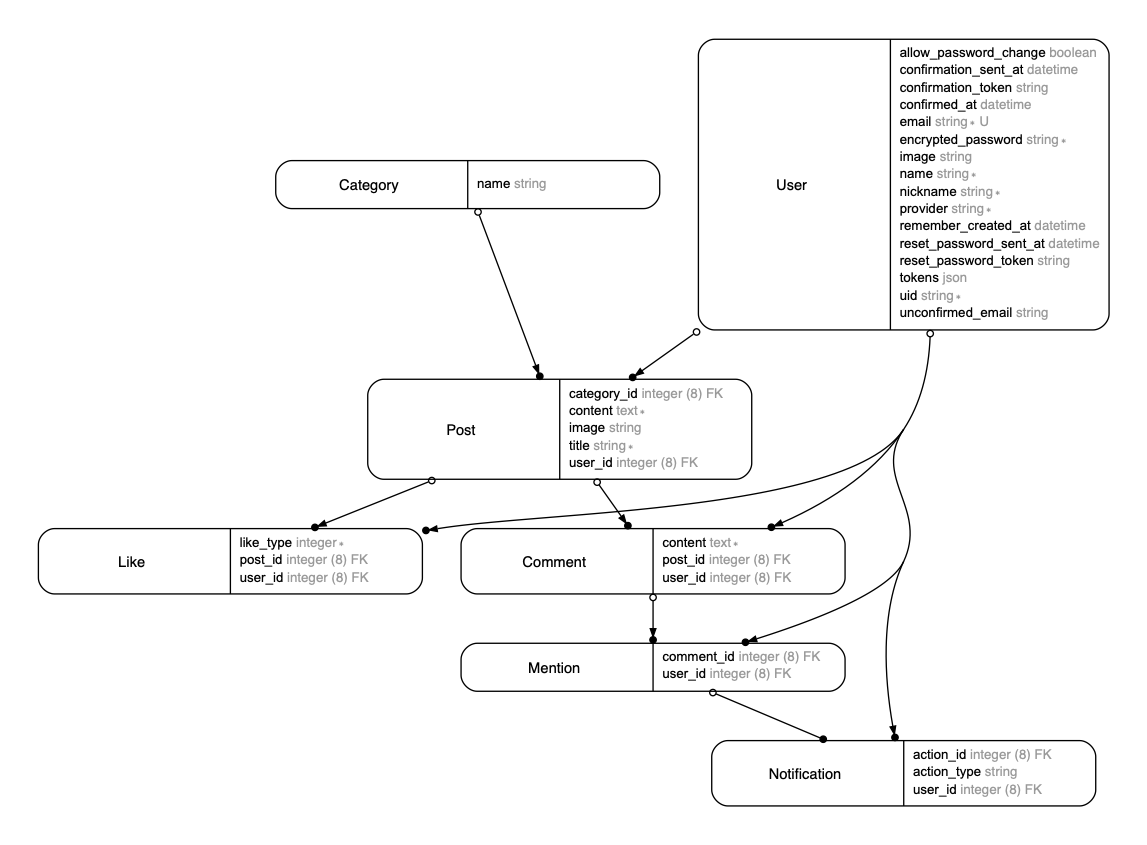
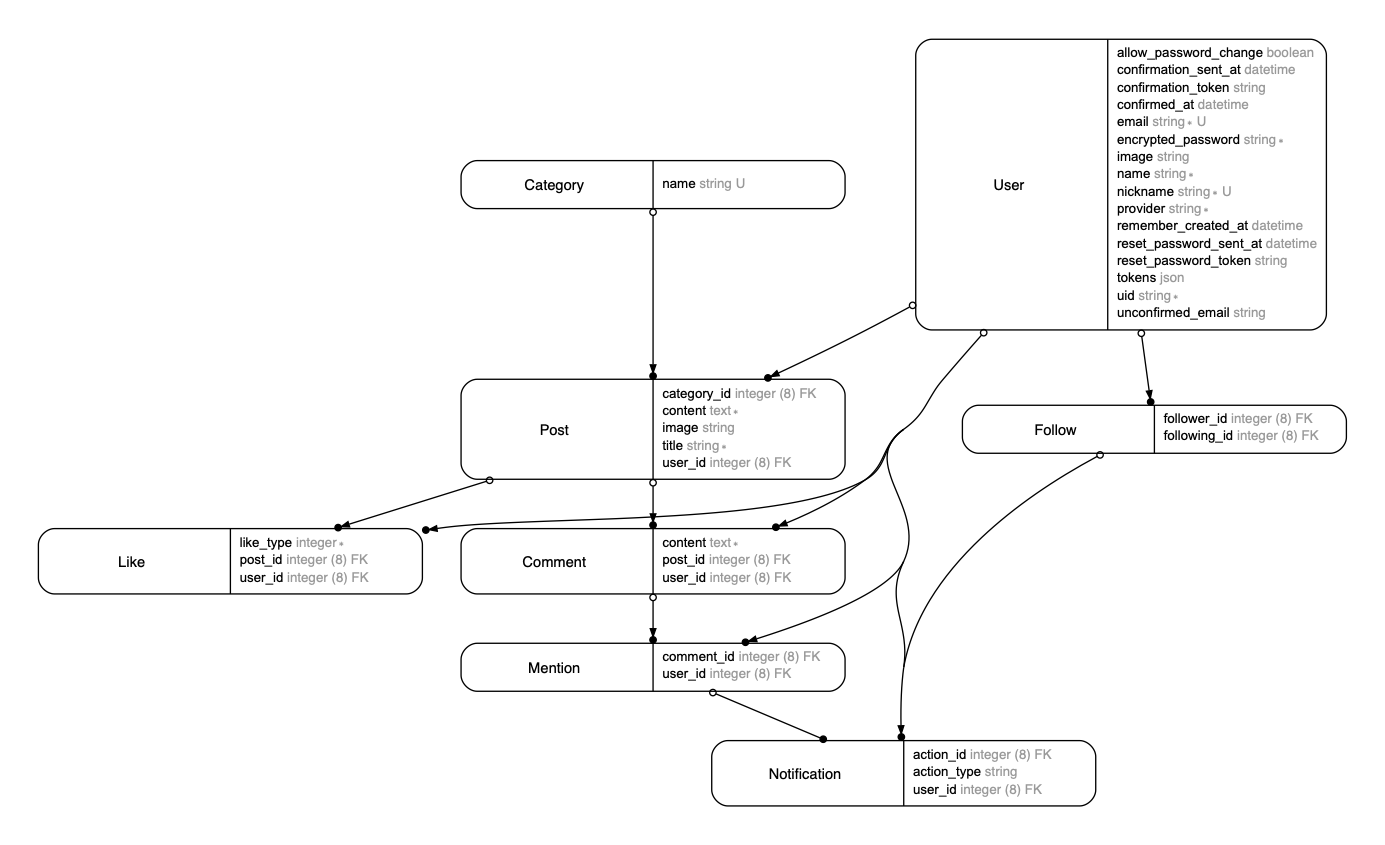
final

diff --git a/main.tex b/main.tex
@@ -57,7 +57,9 @@ W wyborze zestawu narzędzi do realizacji implementacji pracy kierowałem się t
 
 \chapter{Wymagania}
 
-Pierwsze blogi powstały w późnych latach 90. Były prostymi, statycznymi stronami WWW aktualizowanymi ręcznie. Wpisy były wyświetlane użytkownikowi w odwrotnej chronologicznej kolejności. Wraz z upływem czasu i wzrostem popularności internetowych dzienników powstały specjalne serwisy oraz oprogramowanie służące do ich obsługi. Pozwoliło to na prowadzenie własnego bloga przez przeciętnego użytkownika internetu. Dzisiaj najpopularniejszą odmianą są mikroblogi – strony umożliwiające użytkownikom dzielenie się krótkimi, kilku zdaniowymi przemyśleniami lub obrazkami, np. Twitter \cite{twitter}, Facebook \cite{facebook}, Wykop.pl \cite{wykop}. Poniżej opisano wymagania funkcjonalne i niefunkcjonalne wytwarzanego systemu.
+Pierwsze blogi powstały w późnych latach 90. Były prostymi, statycznymi stronami WWW aktualizowanymi ręcznie. Wpisy były wyświetlane użytkownikowi w odwrotnej chronologicznej kolejności. Wraz z upływem czasu i wzrostem popularności internetowych dzienników powstały specjalne serwisy oraz oprogramowanie służące do ich obsługi. Pozwoliło to na prowadzenie własnego bloga przez przeciętnego użytkownika internetu. Dzisiaj najpopularniejszą odmianą są mikroblogi – strony umożliwiające użytkownikom dzielenie się krótkimi, kilku zdaniowymi przemyśleniami lub obrazkami, np. Twitter \cite{twitter}, Facebook \cite{facebook}, Wykop.pl \cite{wykop}.
+
+Poniżej opisano wymagania funkcjonalne i niefunkcjonalne wytwarzanego systemu.
 
 \subsubsection{Wymagania funkcjonalne}
 
@@ -73,7 +75,7 @@ Pierwsze blogi powstały w późnych latach 90. Były prostymi, statycznymi stro
     \item Zalogowany użytkownik może:
         \begin{itemize}
             \item wylogować się;
-            \item pisać nowe posty
+            \item pisać nowe posty;
             \item pisać komentarze;
             \item przeglądać listę powiadomień.
         \end{itemize}
@@ -93,7 +95,7 @@ Pierwsze blogi powstały w późnych latach 90. Były prostymi, statycznymi stro
 % \subsection{Wnioski}-
 \chapter{Część dla programisty}
 \section{Architektura aplikacji}
-Aplikacja jest napisana w architekturze klient-serwer, podczas jej tworzenia wykorzystano wzorzec separacji zagadnień (ang. \textit{separation of concerns}, SoC). Pozwoliło to na podzielenie serwisu na dwie części. Pierwszą jest warstwa dostępu do danych napisana w języku Ruby \cite{ruby} z wykorzystaniem Ruby on Rails \cite{ror}. Odpowiada ona za przechowywanie danych w bazie danych PostgreSQL \cite{postgre} oraz za ich udostępnianie za pomocą API. Drugą częścią jest warstwa prezentacji, która wykorzystuje JavaScript oraz framework React \cite{react} w celu prezentacji danych. Taki podział pozwala na niezależny rozwój każdej części aplikacji.
+Aplikacja jest napisana w architekturze klient-serwer, podczas jej tworzenia wykorzystano wzorzec separacji zagadnień (ang. \textit{separation of concerns}, SoC) \cite{soc}. Pozwoliło to na podzielenie serwisu na dwie części. Pierwszą jest warstwa dostępu do danych napisana w języku Ruby \cite{ruby} z wykorzystaniem Ruby on Rails \cite{ror}. Odpowiada ona za przechowywanie danych w bazie danych PostgreSQL \cite{postgre} oraz za ich udostępnianie za pomocą API. Drugą częścią jest warstwa prezentacji, która wykorzystuje JavaScript oraz framework React \cite{react} w celu prezentacji danych. Taki podział pozwala na niezależny rozwój każdej części aplikacji.
 
 \section{Uruchomienie aplikacji}
 
@@ -105,7 +107,8 @@ Wymagane oprogramowanie do uruchomienia części serwerowej:
             \item Foreman \cite{foreman} w wersji 0.85.0,
             \item Pozostałe zależności z pliku \textit{Gemfile},
             \item PostgreSQL w wersji 11.3,
-            \item Redis \cite{redis} w wersji 5.0.5.
+            \item Node.js 10
+            \item Redis \cite{redis} w wersji 5.0.5 działający w tle.
         \end{itemize}
 
 Oto czynności, które trzeba wykonać, aby zainstalować część serwerową:
@@ -113,7 +116,7 @@ Oto czynności, które trzeba wykonać, aby zainstalować część serwerową:
     \item W katalogu \textit{blogger-backend} poleceniem \textit{bundle install} zainstalować dodatkowe biblioteki.
     \item Poleceniem \textit{rake db:create} utworzyć bazę danych.
     \item Wykonać migracje do bazy danych poleceniem \textit{rake db:migrate}.
-    \item Wypełnić bazę danych przykładowymi danymi peleceniem \textit{rake db:seed}.
+    \item Wypełnić bazę danych przykładowymi danymi poleceniem \textit{rake db:seed}.
     \item Poleceniem \textit{foreman start -f Procfile.dev} uruchomić serwer.
 \end{enumerate}
 
@@ -149,7 +152,11 @@ Część serwerowa została napisana z wykorzystaniem frameworka Ruby on Rails. 
     \end{minipage}
 \end{figure}
 \subsection{Struktura backendu}
-Struktura części serwerowej przedstawiona na rysunkach \ref{fig:struktura_serwer1} i \ref{fig:struktura_serwer2} powstała w wyniku działania wbudowanego w Ruby on Rails generatora. Utworzył on minimalną konfigurację potrzebną do rozpoczęcia pracy. Framework implementuje architekturę \textbf{MVC (Model-Widok-Kontroler)} \cite{rortutorial}. Zakłada ona podział na trzy główne części. Model jest odpowiedzialny za zarządzanie danymi oraz implementacje logiki biznesowej. Widok ma za zadanie prezentację modelu za pomocą ustalonego formatu. Natomiast kontroler przyjmuje żądania od użytkownika i wykonuje operacje na modelach. Najważniejszą częścią projektu jest katalog \textit{app} zawierający wszystkie komponenty aplikacji. W podkatalogu \textit{app/controllers} umieszczono kontrolery odpowiadające za nadanie sensu żądaniom przychodzącym do API oraz za wygenerowanie poprawnej odpowiedzi (rys. \ref{fig:kontroler}). W nazwie każdego kontrolera zawarta jest informacja, na jakim modelu on operuje. W \textit{app/services} znajdują się klasy serwisów, które implementują interakcje użytkownika z aplikacją. Pozwala to na wyodrębnienie logiki biznesowej z kontrolerów. Konfiguracje do serializera odpowiedzialnego za przekształcanie instancji modeli na format JSON znajdują się w folderze \textit{app/serializers}. Definicje modeli (rys. \ref{fig:model}) zlokalizowane są w folderze \textit{app/models}. Katalog \textit{db} zawiera aktualny schemat bazy danych, co umożliwia przenoszenie bazy pomiędzy komputerami oraz migrację, czyli zestaw plików napisany w Ruby DSL pozwala na zmianę schematu bazy danych bez potrzeby pisania ręcznie poleceń SQL.
+Struktura części serwerowej przedstawiona na rysunkach \ref{fig:struktura_serwer1} i \ref{fig:struktura_serwer2} powstała w wyniku działania wbudowanego w Ruby on Rails generatora. Utworzył on minimalną konfigurację potrzebną do rozpoczęcia pracy. Framework implementuje architekturę \textbf{MVC (Model-Widok-Kontroler)} \cite{rortutorial}. Zakłada ona podział na trzy główne części. Model jest odpowiedzialny za zarządzanie danymi. Widok ma za zadanie prezentację modelu za pomocą ustalonego formatu. Natomiast kontroler przyjmuje żądania od użytkownika i wykonuje operacje na modelach. 
+
+\newpage
+
+Najważniejszą częścią projektu jest katalog \textit{app} zawierający wszystkie komponenty aplikacji. W podkatalogu \textit{app/controllers} umieszczono kontrolery odpowiadające za nadanie sensu żądaniom przychodzącym do API oraz za wygenerowanie poprawnej odpowiedzi (rys. \ref{fig:kontroler}). W nazwie każdego kontrolera zawarta jest informacja, na jakim modelu on operuje. W \textit{app/services} znajdują się klasy serwisów, które implementują interakcje użytkownika z aplikacją. Pozwala to na wyodrębnienie logiki biznesowej z kontrolerów. Konfiguracje do serializera odpowiedzialnego za przekształcanie instancji modeli na format JSON znajdują się w folderze \textit{app/serializers}. Definicje modeli (rys. \ref{fig:model}) zlokalizowane są w folderze \textit{app/models}. Katalog \textit{db} zawiera aktualny schemat bazy danych, co umożliwia przenoszenie bazy pomiędzy komputerami oraz migracje, czyli zestaw plików napisany w Ruby DSL pozwala na zmianę schematu bazy danych bez potrzeby pisania ręcznie poleceń SQL.
 \begin{figure}
     \centering
     \includegraphics[width=\textwidth]{images/kontroler.png}
@@ -175,6 +182,7 @@ Baza danych (rys. \ref{fig:erd_diagram}) składa się z następujących tabel:
     \item \textbf{post} - podstawowy typ danych w platformie blogowej. Składa się z tytułu, zawartości oraz łącza do miniaturki.
     \item \textbf{comment} - przechowuje zawartość komentarzy.
     \item \textbf{like} - odpowiada za przechowywanie głosów użytkowników.
+    \item \textbf{follow} - przechowuje dane o obserwowanych osobach w postaci par obserwujący, obserwowany.
     \item \textbf{mention} - gromadzi dane z systemu wspomnień. Dla każdej wspomnianej osoby w komentarzu przechowuje wpis z identyfikatorem użytkownika oraz komentarza, co pozwala na szybkie znalezienie zarówno osób skojarzonych z wpisem, jak i postów przypisanych danej osobie.
     \item \textbf{notification} - odpowiada za powiadomienia. Dzięki polimorficznym asocjacjom możliwa jest rozbudowa tego systemu wraz z rozwojem aplikacji. Dla każdego wpisu w tabeli pamiętany jest zarówno identyfikator powiązanego obiektu, jak i jego typ. Pozwala to, aby jedna tabela zawierała odniesienia do wielu tabel.
 \end{itemize}
@@ -203,6 +211,10 @@ Aby ograniczyć dostęp do wybranych funkcjonalności API, wykorzystano system u
     \caption{Proces obsługi tokenu \cite{token}}
     \label{fig:token}
 \end{figure}
+
+\subsection{Wyszukiwanie wpisów}
+Użytkownikom udostępniono wyszukiwarkę pozwalającą przeszukiwać posty ze względu na ich tytuł. Zastosowano wbudowaną w silnik bazy danych metodę przeszukiwania tekstu \textit{Full-text search} \cite{textsearch}. W odróżnieniu od operatorów \textit{ILIKE} oraz \textit{LIKE} które wykorzystują wyrażenia regularne, wyszukiwanie pełnotekstowe uwzględnia dodatkowe informacje np. językowe. Dzięki temu znalezione zostaną nie tylko wystąpienia wzorca, ale również wyrazy pochodne do szukanych.
+
 
 \subsection{Ciągła integracja}
 W procesie wytwarzania oprogramowania zastosowano technikę ciągłej integracji (z ang. \textit{continuous integration}) \cite{ci} z wykorzystaniem serwisu Travis CI \cite{travis}. Każdy zestaw zmian wysyłany do repozytorium GIT wyzwala proces przeprowadzenia testów oraz statycznej analizy kodu. Taka praktyka przyśpiesza wykrywanie błędów oraz wspomaga egzekwowanie wytycznych dotyczących stylu kodu.
@@ -233,15 +245,15 @@ Punktem wejścia do aplikacji jest \textit{App.js} (rys. \ref{fig:app.js}), gdzi
 
 \begin{figure}[H]
     \centering
-    \includegraphics[width=\textwidth]{images/appjs.png}
-    \caption{Plik App.js}
+    \includegraphics[height=19cm]{images/appjs2.png}
+    \caption{Zawartość pliku  App.js}
     \label{fig:app.js}
 \end{figure}
 
 \begin{figure}
     \centering
     \includegraphics[width=\textwidth]{images/komponent1.png}
-    \caption{Przykładowy komponent}
+    \caption{Kod przykładowego komponentu}
     \label{fig:komponent1}
 \end{figure}
 
@@ -273,13 +285,29 @@ W tym widoku (rys. \ref{fig:post_view}) użytkownik ma dostęp do pełnej treśc
     \caption{Ekran widoku szczegółowego}
     \label{fig:post_view}
 \end{figure}
+\subsubsection{Strona użytkownika}
+Użytkownik, klikając w pseudonim jednego z użytkowników, zostanie przekierowany na stronę użytkownika (rys. \ref{fig:uzytkownik}) zawierającą wszystkie jego wpisy.
 
+\begin{figure}[H]
+    \centering
+    \includegraphics[width=\textwidth]{images/stronauzytkownika.png} 
+    \caption{Ekran strony użytkownika}
+    \label{fig:uzytkownik}
+\end{figure}
+\subsubsection{Wyszukiwarka}
+Użytkownicy mają możliwość wyszukiwania wpisów ze względu na tytuł za pomocą wyszukiwarki (rys. \ref{fig:wyszukiwarka}).
+\begin{figure}[H]
+    \centering
+    \includegraphics[width=\textwidth]{images/wyszukiwarka.png}
+    \caption{Ekran wyszukiwania}
+    \label{fig:wyszukiwarka}
+\end{figure}
 \subsubsection{Rejestracja nowego użytkownika}
 Aby zarejestrować się w serwisie (rys. \ref{fig:register}), należy podać imię, nick, e-mail, hasło. Opcjonalnie użytkownik może dodać swój awatar. Po wysłaniu formularza na podany wcześniej adres poczty zostanie wysłany link aktywujący konto.
 
 \begin{figure}[H]
     \centering
-    \includegraphics[width=\textwidth]{images/rejestracja.png}
+    \includegraphics[width=\textwidth]{images/rejestracja2.png}
     \caption{Formularz rejestracji nowego użytkownika}
     \label{fig:register}
 \end{figure}
@@ -318,8 +346,18 @@ Dla zalogowanych użytkowników udostępniona została funkcja dyskusji na temat
     \label{fig:comment}
 \end{figure}
 
+\subsubsection{Obserwowanie użytkowników}
+Każdy zarejestrowany użytkownik może otrzymywać powiadomienia o nowych wpisach wybranych użytkowników. Wystarczy, że doda ich do listy obserwowanych za pomocą przycisku \textit{Follow} (rys. \ref{fig:follow})dostępnego na stronie użytkownika.
+
+\begin{figure}[h!]
+    \centering
+    \includegraphics[width=\textwidth]{images/follow.png}
+    \caption{Przycisk dodający do listy obserwowanych}
+    \label{fig:follow}
+\end{figure}
+
 \subsection{Obszar powiadomień}
-W obszarze powiadomień (rys. \ref{fig:notification}) użytkownik ma dostęp do listy swoich powiadomień pochodzących między innymi z komentarzy.
+W obszarze powiadomień (rys. \ref{fig:notification}) użytkownik ma dostęp do listy swoich powiadomień pochodzących z komentarzy lub nowych wpisów obserwowanych osób.
 \begin{figure}[H]
     \centering
     \includegraphics[width=\linewidth]{images/powiadomienia.png}
@@ -350,6 +388,8 @@ Biorąc pod uwagę skalę popularności serwisów o podobnej funkcjonalności, m
 \url{https://www.facebook.com}
 \bibitem{wykop} Wykop.pl 
 \url{https://www.wykop.pl}
+\bibitem{soc} Separation fo concerns
+\url{https://en.wikipedia.org/wiki/Separation_of_concerns}
 \bibitem{ruby} Ruby
 \url{https://www.ruby-lang.org/}
 \bibitem{ror} Ruby on Rails
@@ -385,6 +425,8 @@ Getting Started with Rails
 \url{https://en.wikipedia.org/wiki/ACID}
 \bibitem{sidekiq} Sidekiq
 \url{https://github.com/mperham/sidekiq}
+\bibitem{textsearch} PostgreSQL: Full Text Search
+\url{https://www.postgresql.org/docs/10/textsearch-intro.html}
 \bibitem{ci} Continuous integration
 \url{https://en.wikipedia.org/wiki/Continuous_integration}
 \bibitem{travis} Travis CI
